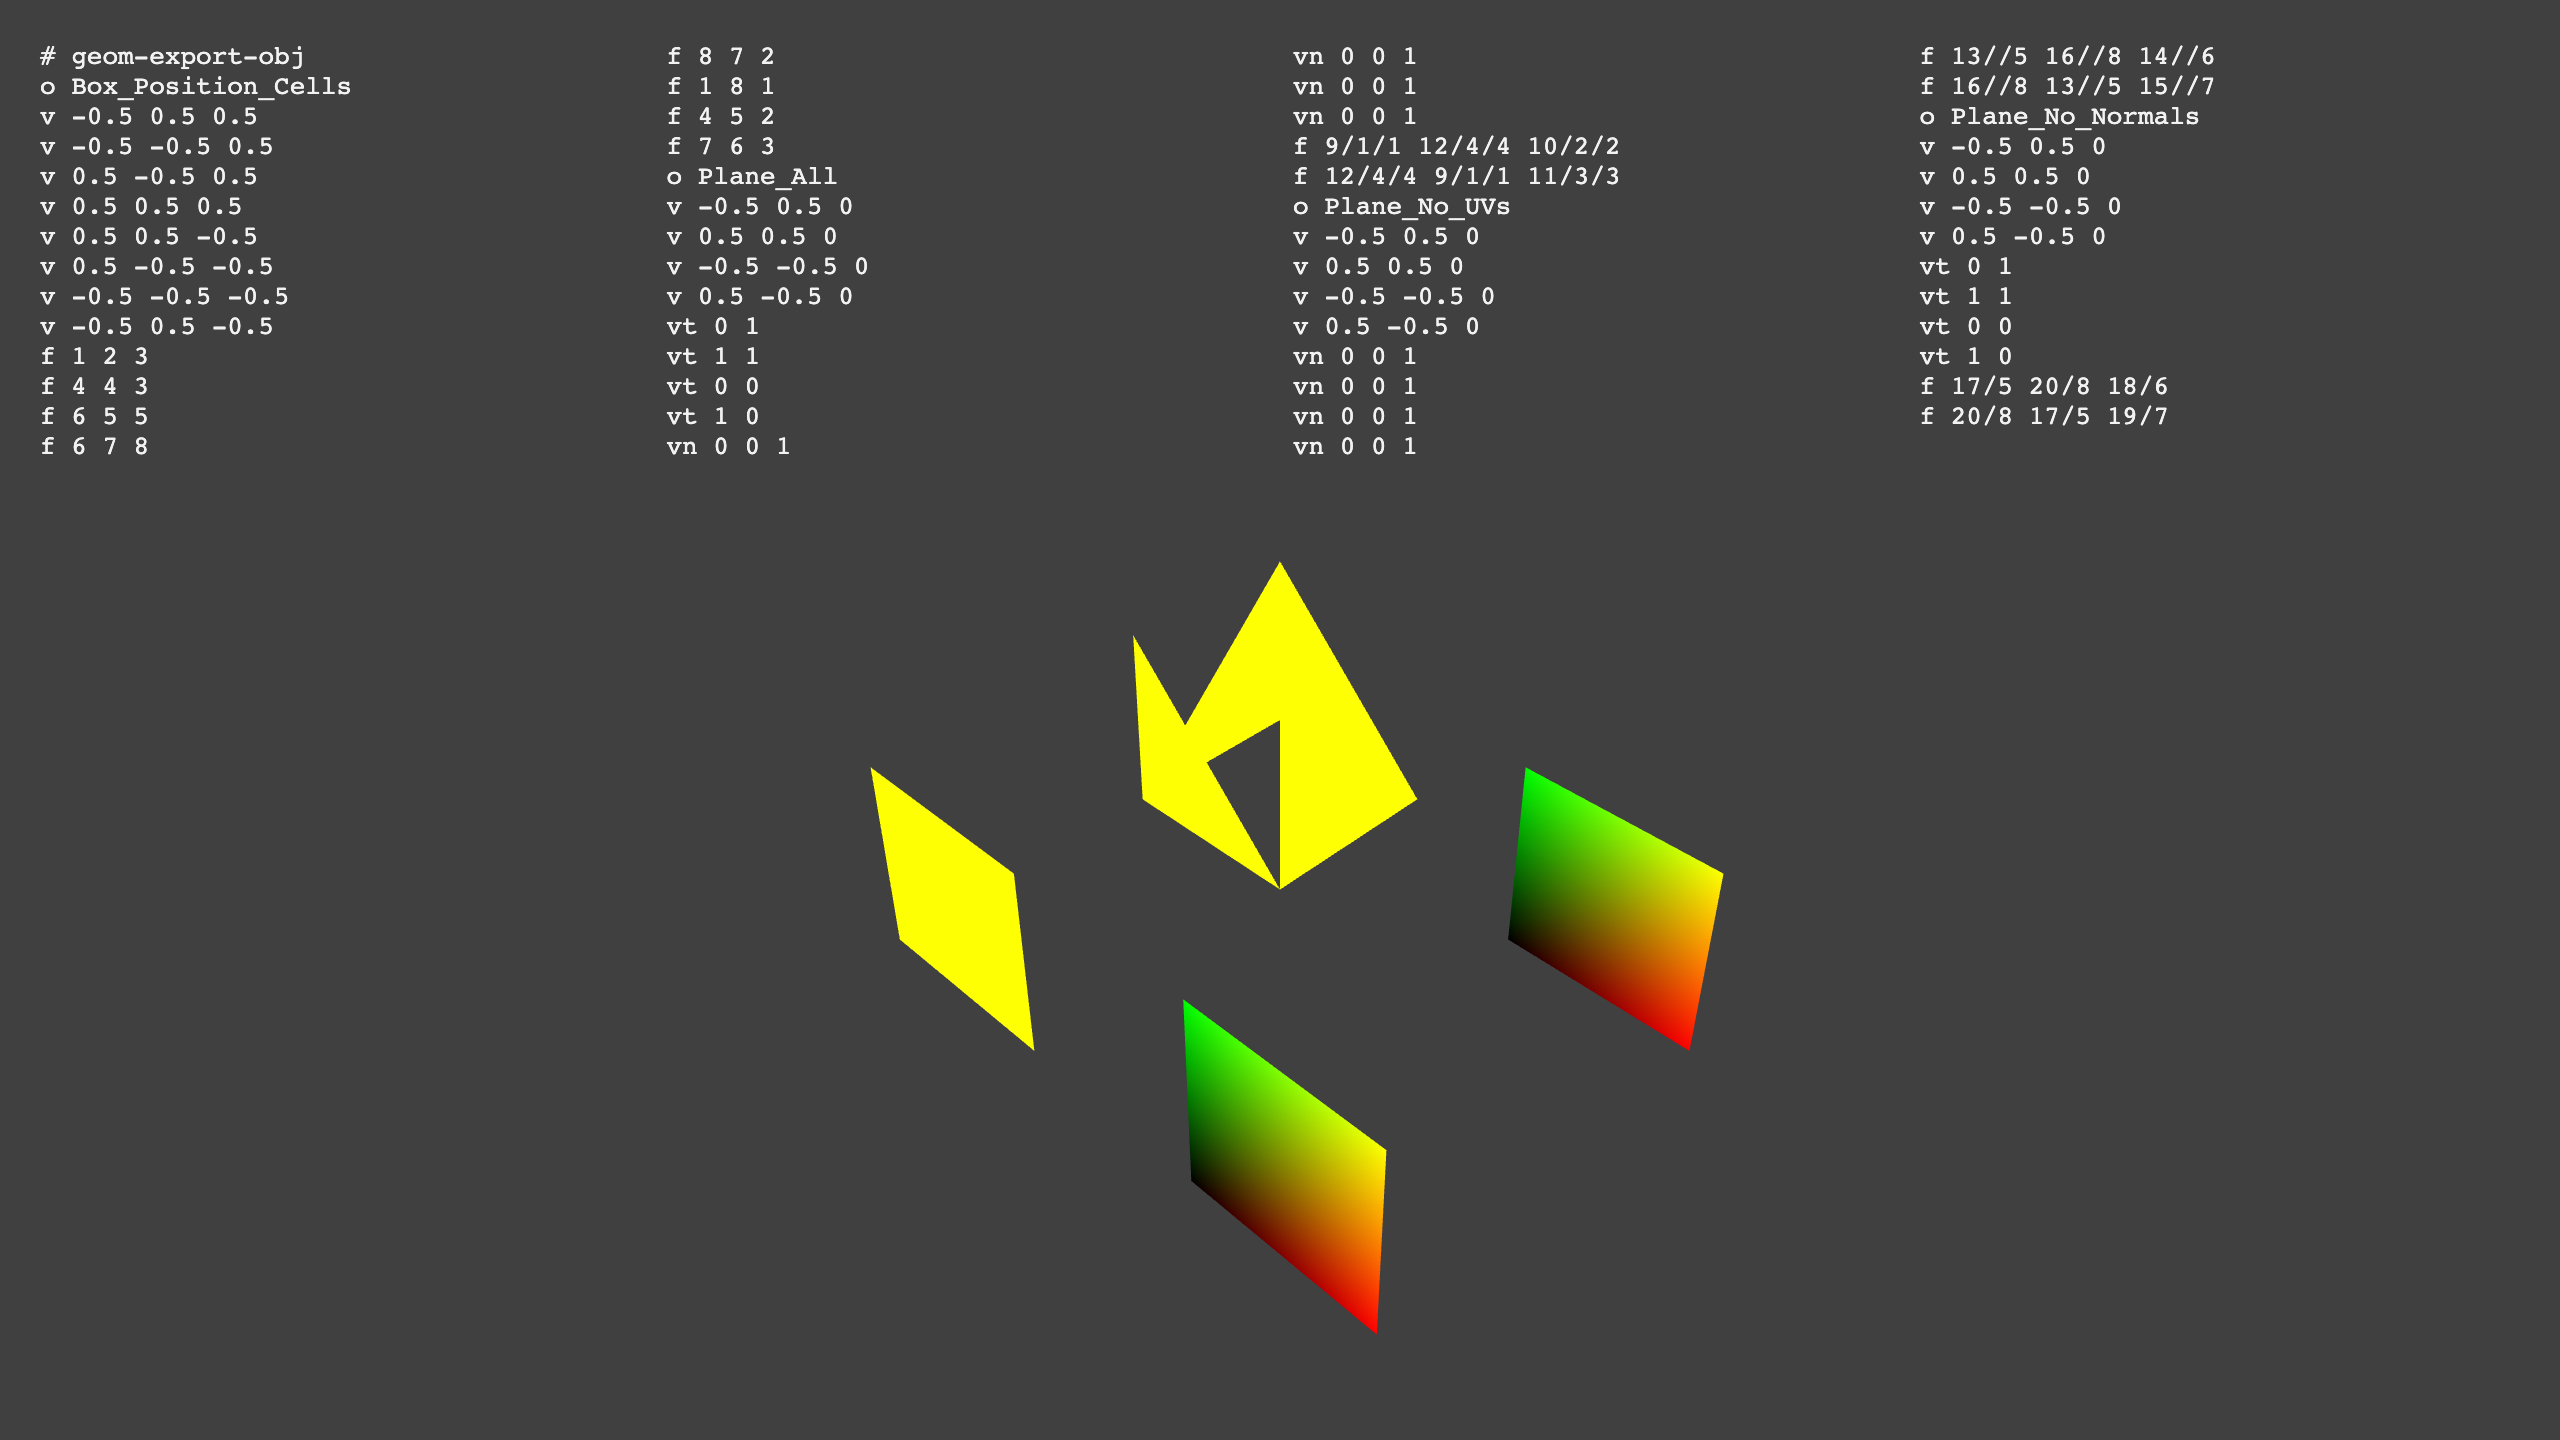
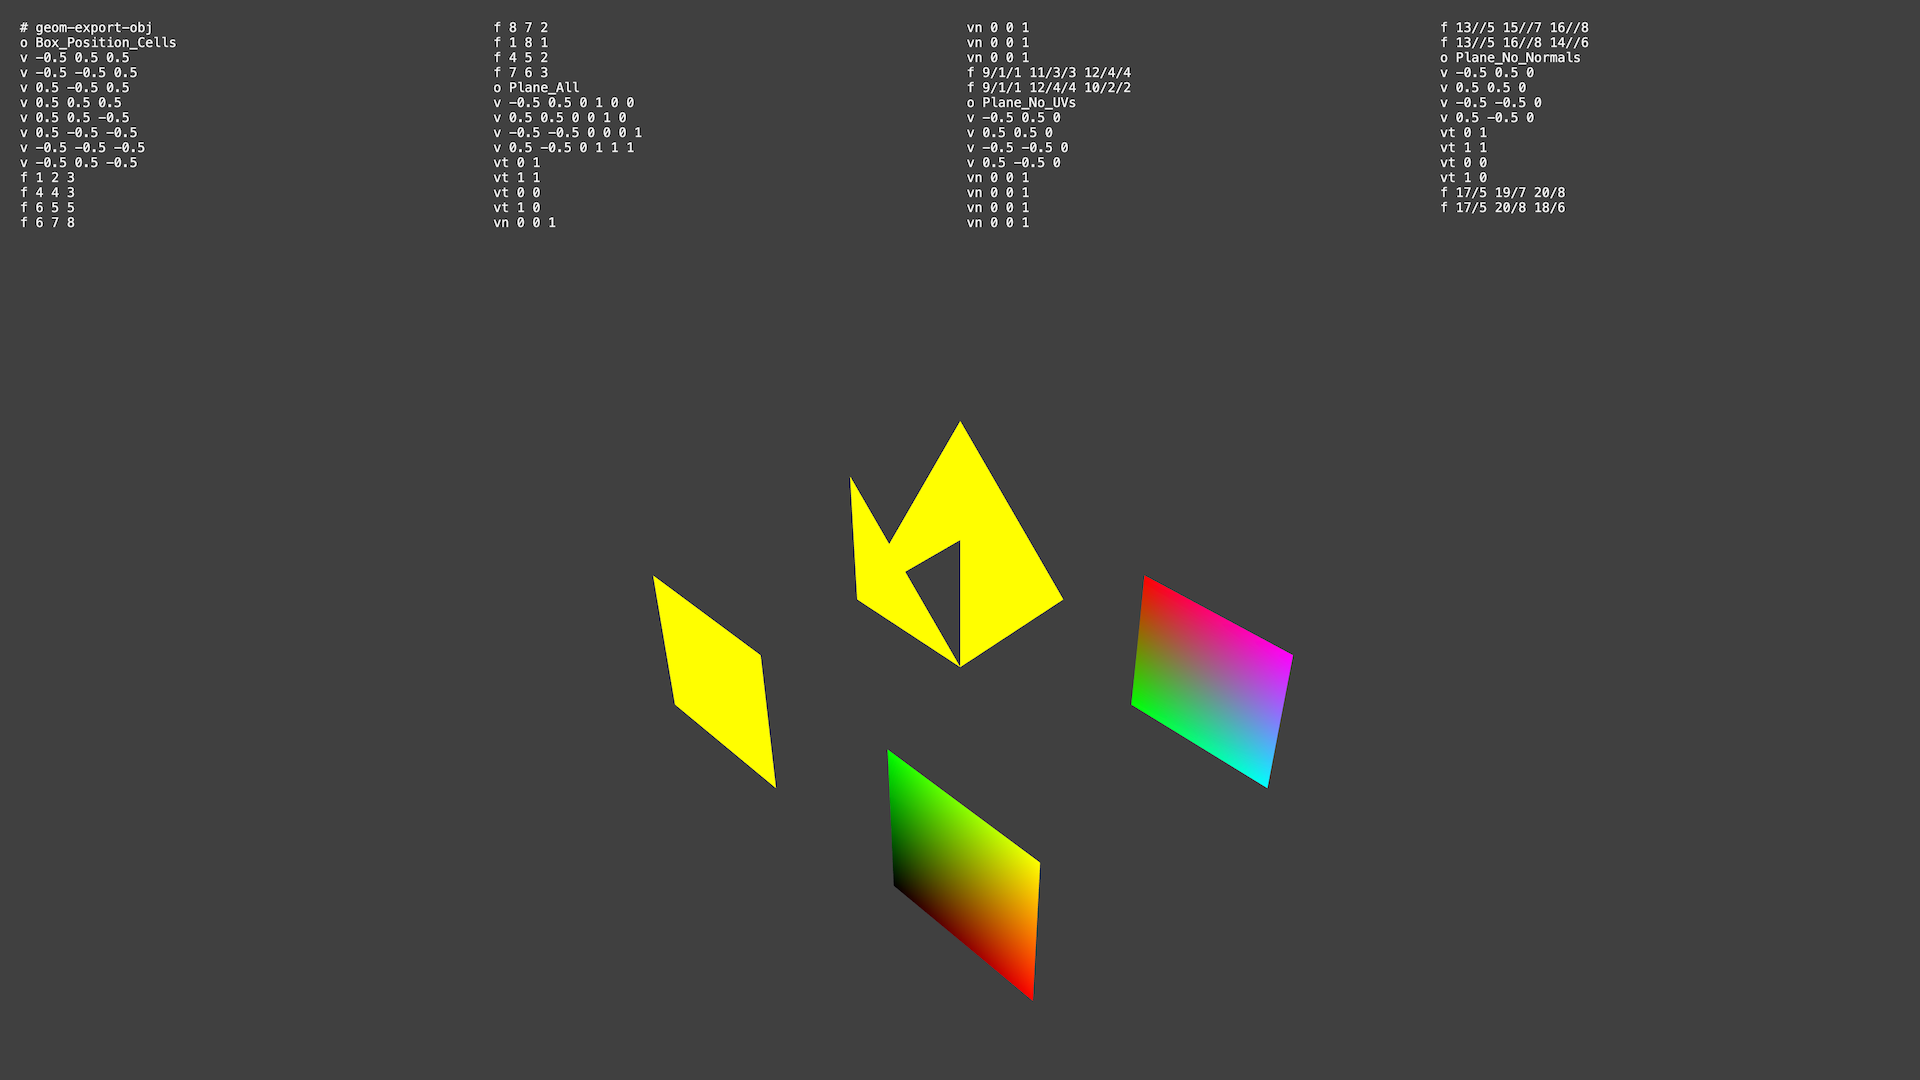
feat: add support for vertex colors
- handle vertexColors as 3 or 4 values but only write 3 (writing alpha is not standard usage)

BREAKING CHANGE: geometric vertex infos will now range from 3 to 6 values

diff --git a/index.html b/index.html
@@ -1,4 +1,4 @@
-<!DOCTYPE html>
+<!doctype html>
 <html lang="en">
   <head>
     <meta charset="UTF-8" />
@@ -57,6 +57,13 @@
 
       const planeGeometry = plane();
       planeGeometry.name = `Plane_All`;
+      // prettier-ignore
+      planeGeometry.vertexColors = Float32Array.of(
+        1, 0, 0, 1,
+        0, 1, 0, 1,
+        0, 0, 1, 1,
+        1, 1, 1, 1,
+      );
 
       const planeNoUVsGeometry = plane();
       delete planeNoUVsGeometry.uvs;
@@ -100,12 +107,15 @@
   uniform mat4 model, view, projection;
   attribute vec3 position, normal;
   attribute vec2 uv;
+  attribute vec3 vertexColor;
   varying vec3 vNormal;
   varying vec2 vUv;
+  varying vec3 vColor;
 
   void main () {
     vNormal = normal;
     vUv = uv;
+    vColor = vertexColor;
     gl_Position = projection * view * model * vec4(position, 1.0);
   }`,
         frag: /* glsl */ `
@@ -113,15 +123,21 @@
 
     varying vec3 vNormal;
     varying vec2 vUv;
+    varying vec3 vColor;
 
     void main () {
-      gl_FragColor = vec4(vUv, 0.0, 1.0);
+      if (length(vColor) == 0.0) {
+        gl_FragColor = vec4(vUv, 0.0, 1.0);
+      } else {
+        gl_FragColor = vec4(vColor, 1.0);
+      }
       // gl_FragColor = vec4(vNormal * 0.5 + 0.5, 1.0);
     }`,
         attributes: {
           position: regl.prop("positions"),
           normal: regl.prop("normals"),
           uv: regl.prop("uvs"),
+          vertexColor: regl.prop("vertexColors"),
         },
         elements: regl.prop("cells"),
         uniforms: {
@@ -152,6 +168,7 @@
             ...geometry,
             normals: geometry.normals || geometry.positions,
             uvs: geometry.uvs || geometry.positions.map(() => 1),
+            vertexColors: geometry.vertexColors || geometry.positions.map(() => 0),
             model,
             projection: perspectiveCamera.projectionMatrix,
             view: perspectiveCamera.viewMatrix,

diff --git a/index.js b/index.js
@@ -1,18 +1,17 @@
-/**
- * @module geomExportObj
- */
+/** @module geomExportObj */
 
 /**
  * Parse a simplicial complex and return an obj string
  *
  * @see http://paulbourke.net/dataformats/obj/
+ * @see https://paulbourke.net/dataformats/obj/colour.html
  * @param {import("./types.js").SimplicialComplex} geometry
  * @param {import("./types.js").GeomExportObjOffsets} [offsets={ positions: 0, normals: 0, uvs: 0 }}]
  * @param {string} [defaultName] A name for the object if geometry.name is not specified.
  * @returns {string}
  */
 function parse(
-  { positions, normals, uvs, cells, name, materialName },
+  { positions, normals, uvs, cells, vertexColors, name, materialName },
   offsets = { positions: 0, normals: 0, uvs: 0 },
   defaultName,
 ) {
@@ -22,10 +21,19 @@ function parse(
   // material name
   if (materialName) output += `usemtl ${materialName}\n`;
 
-  // geometric vertices
+  // geometric vertices and optional vertex colors
   if (positions) {
+    let vertexColorsSize;
+    const getVertexColors = (positionIndex) => {
+      if (!vertexColors) return "";
+      vertexColorsSize ||=
+        vertexColors?.length / 4 === positions.length / 3 ? 4 : 3;
+      const i = (positionIndex / 3) * vertexColorsSize;
+      return ` ${vertexColors[i]} ${vertexColors[i + 1]} ${vertexColors[i + 2]}`;
+    };
+
     for (let i = 0; i < positions.length; i += 3) {
-      output += `v ${positions[i]} ${positions[i + 1]} ${positions[i + 2]}\n`;
+      output += `v ${positions[i]} ${positions[i + 1]} ${positions[i + 2]}${getVertexColors(i)}\n`;
     }
   }
 

diff --git a/README.md b/README.md
@@ -10,7 +10,7 @@
 [![linted with eslint](https://img.shields.io/badge/linted_with-ES_Lint-4B32C3.svg?logo=eslint)](https://github.com/eslint/eslint)
 [![license](https://img.shields.io/github/license/dmnsgn/geom-export-obj)](https://github.com/dmnsgn/geom-export-obj/blob/main/LICENSE.md)
 
-Convert one (or more) simplicial complex geometry (positions/cells/normals/uvs) into an OBJ string.
+Convert one (or more) simplicial complex geometry (positions/cells/normals/uvs/vertexColors) into an OBJ string.
 
 [![paypal](https://img.shields.io/badge/donate-paypal-informational?logo=paypal)](https://paypal.me/dmnsgn)
 [![coinbase](https://img.shields.io/badge/donate-coinbase-informational?logo=coinbase)](https://commerce.coinbase.com/checkout/56cbdf28-e323-48d8-9c98-7019e72c97f3)
